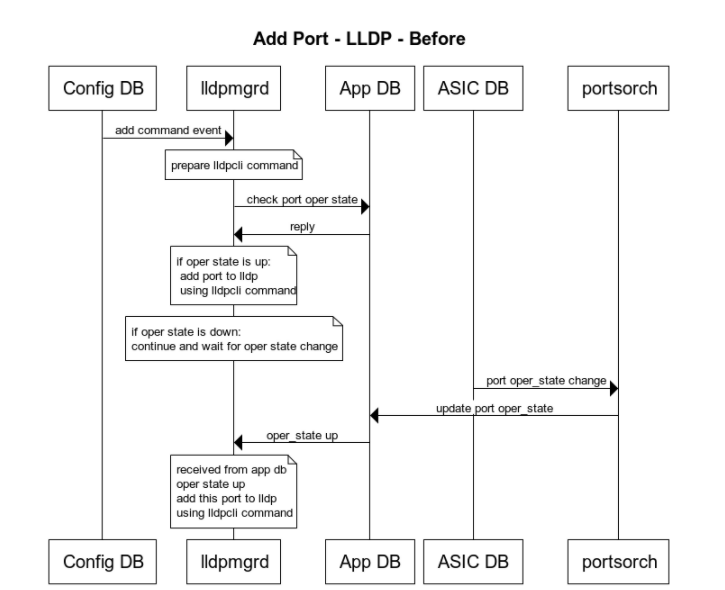
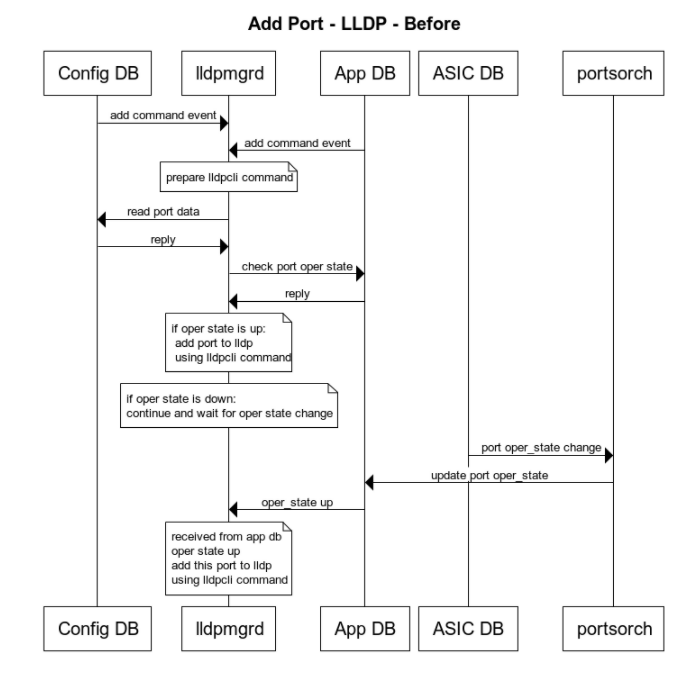
add HLD md document on add/remove ports dynamically feature

Changed region(s): [[0.061, 0.0, 0.9753, 1.0], [0.762, 0.8542, 0.9753, 1.0]]

diff --git a/doc/port-add-del-dynamically/dynamic_port_add_del_hld.md b/doc/port-add-del-dynamically/dynamic_port_add_del_hld.md
@@ -60,7 +60,7 @@ Orchagent is waiting for PortConfigDone before continuing to create the ports on
 Xcvrd, buffermgrd, natmgr, natsync – waiting for PortInitDone
 
 ## Init types:
-The Dynamic port add/remove configuration will be supported for both types of init types:<br />
+The Dynamic port add/remove configuration will be supported for all types of init types:<br />
 •   Start the system with full ports on config db <br />
 •   Start the system without some of the ports on config db<br />
 •   Start the system with zero ports on config db<br />
@@ -73,7 +73,6 @@ after init stage we can add/remove ports dynamically through redis call to add/r
 
 ## Init with zero ports:
 Starting with zero ports requires new SKU for zero ports with these changes:<br />
-**Port_confg.ini** – without entries<br />
 **Hwsku.json** – without interfaces<br />
 **Platform.json** – without interfaces<br />
 **Sai xml** file – needs to be without port entries. <br />
@@ -121,7 +120,7 @@ For example: we need to remove the buffer pg that configured to a port and then 
 9.  Portsyncd will remove the port entry from state db
 
 
-## Modules that “listen” to changes on config port table & App port table 
+## Modules that “listen” to changes on config port table, App port table and State port table
 
 #### SWSS - Portsyncd:
 •   ADD PORT - Receive new port from port config table, add the port info to APP DB (update speed, interface_type, autoneg, adv_speeds, adv_interface_types).<br />
@@ -171,7 +170,16 @@ Del port: Delete event from config db - remove the speed from sflow internal db.
 **No need to change the code**
 
 #### Teammgrd:
-Listen to events from state db, when entry is added -> add the port to lag<br />
+Listen to events from config db:
+set event -> add the port to lag (check before if entry exist on state db - host interface exist)<br />
+del event -> remove port from lag<br />
+
+Listen to events from state db:
+set event -> add the port to lag (the below content is taken from the teammgr code to describe this flow):<br /> 
+When a port gets removed and created again, notification is triggered
+when state dabatabase gets updated. In this situation, the port needs
+to be enslaved into the LAG again.
+del event -> do nothing <br />
 
 **No need to change the code**
 
@@ -259,10 +267,14 @@ Need to add to orchagent the ability to add the buffer configuration of a port a
 
 
 
+The Problem:
+-   when a port is added - the lldpcli execution can failed since the host interface is not yet up. oper_state on on APP DB is up but host interface is not up yet.
+-   when lldp is removed immediatly after add the lldpcli command wasn't executed yet, the command is still on pending_cmds, there is treatment to remove a     port, on lldpmgrd, the command for this port will stay forever on the pending_cmds end each 10 seconds (timeout value) the command will be executed and failed since the host interface is no longer exist.
+
 Suggested change:
--   We will use the state DB to trigger the lldpmgr to add a port<br />
--   When the state db entry is added we know for sure that host interface was created properly and the lldpcli command will be executed properly. <br />
-when host interface is not ready yet the lldpcli will be failed.<br />
+-   Before executing lldpcli command we will check if host interface is up by checking the port status on state db<br />
+-   When receiving del event from App db we will remove the command (if exist) from pending_cmds <br />
+-   in the current implementation we receive events on port create/update from config db and app db and later read from config db again - this implementation is unnecessary and can be problematic in several cases.
 -   The lldpcli is a tool that we can use in order to add ports to lldp.<br />
 
  ![add port - LLDP- suggested change](images/lldp_after.png)
